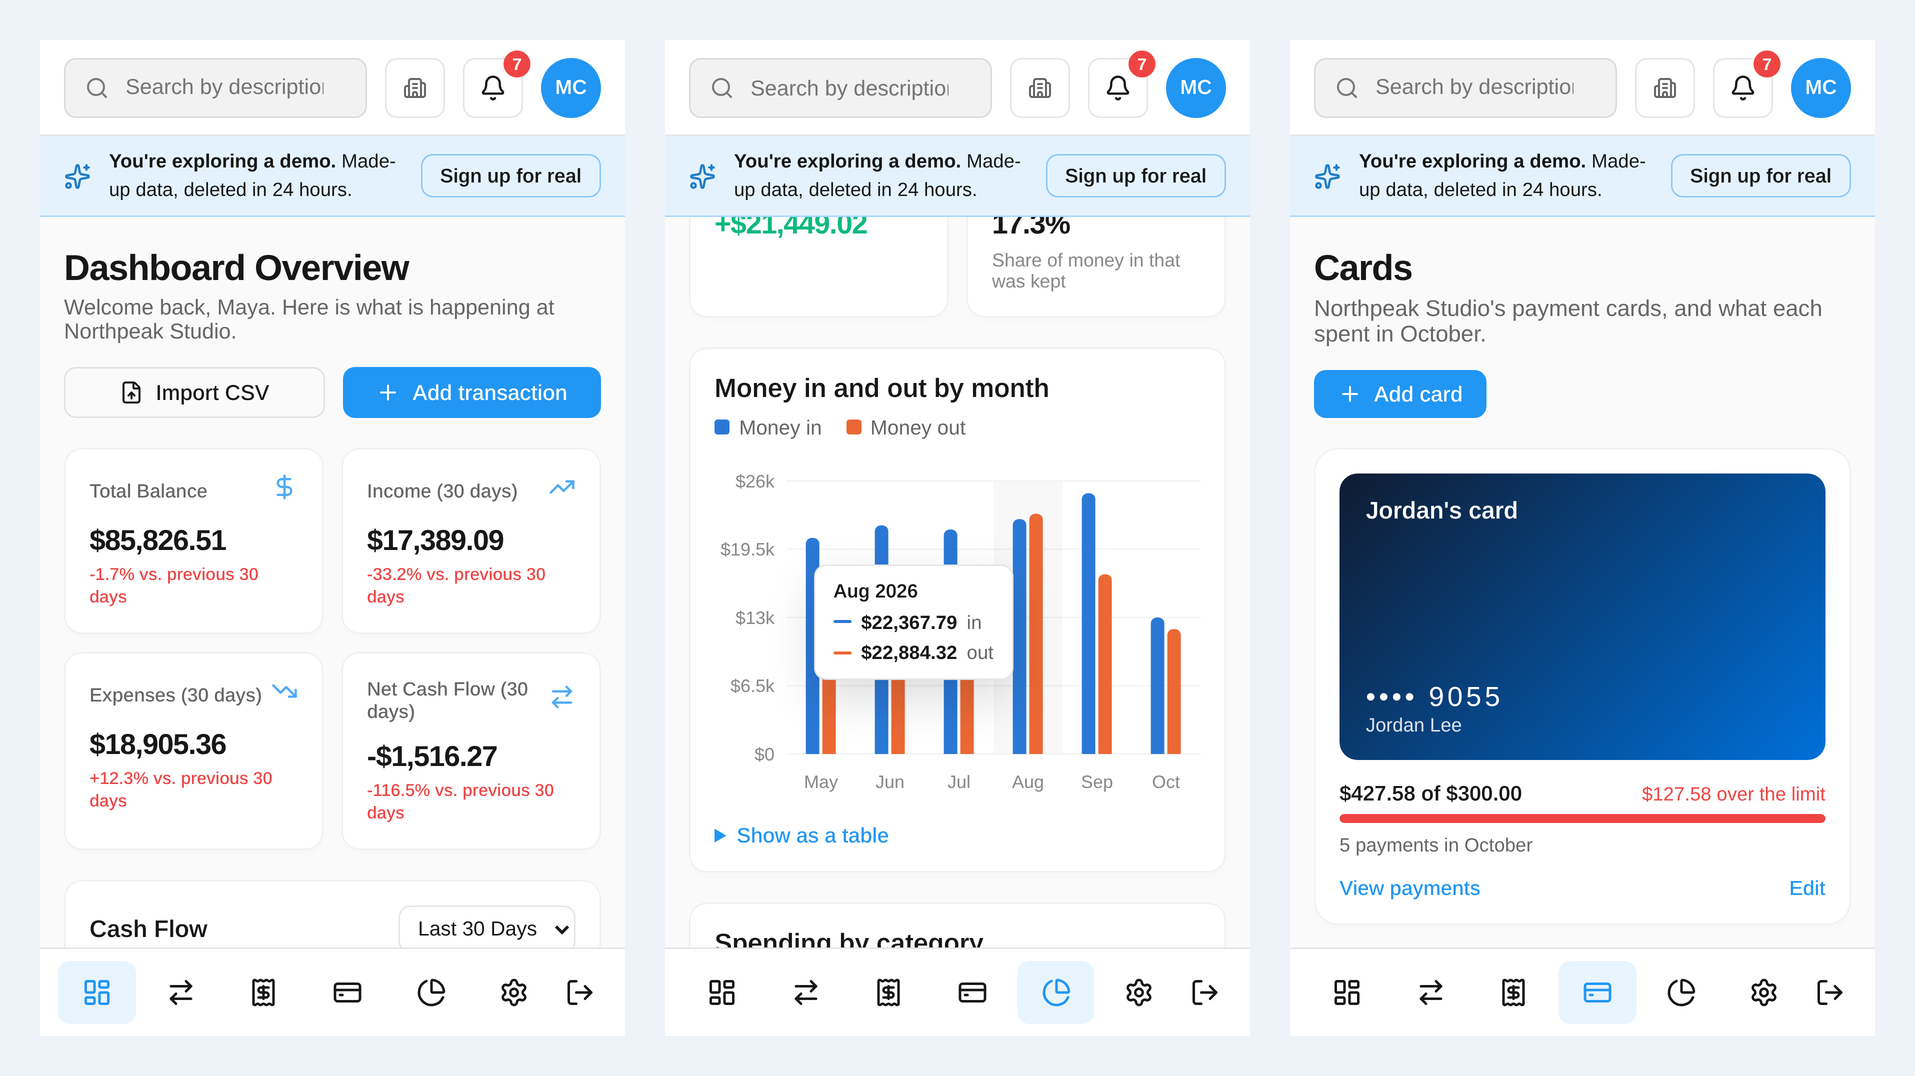
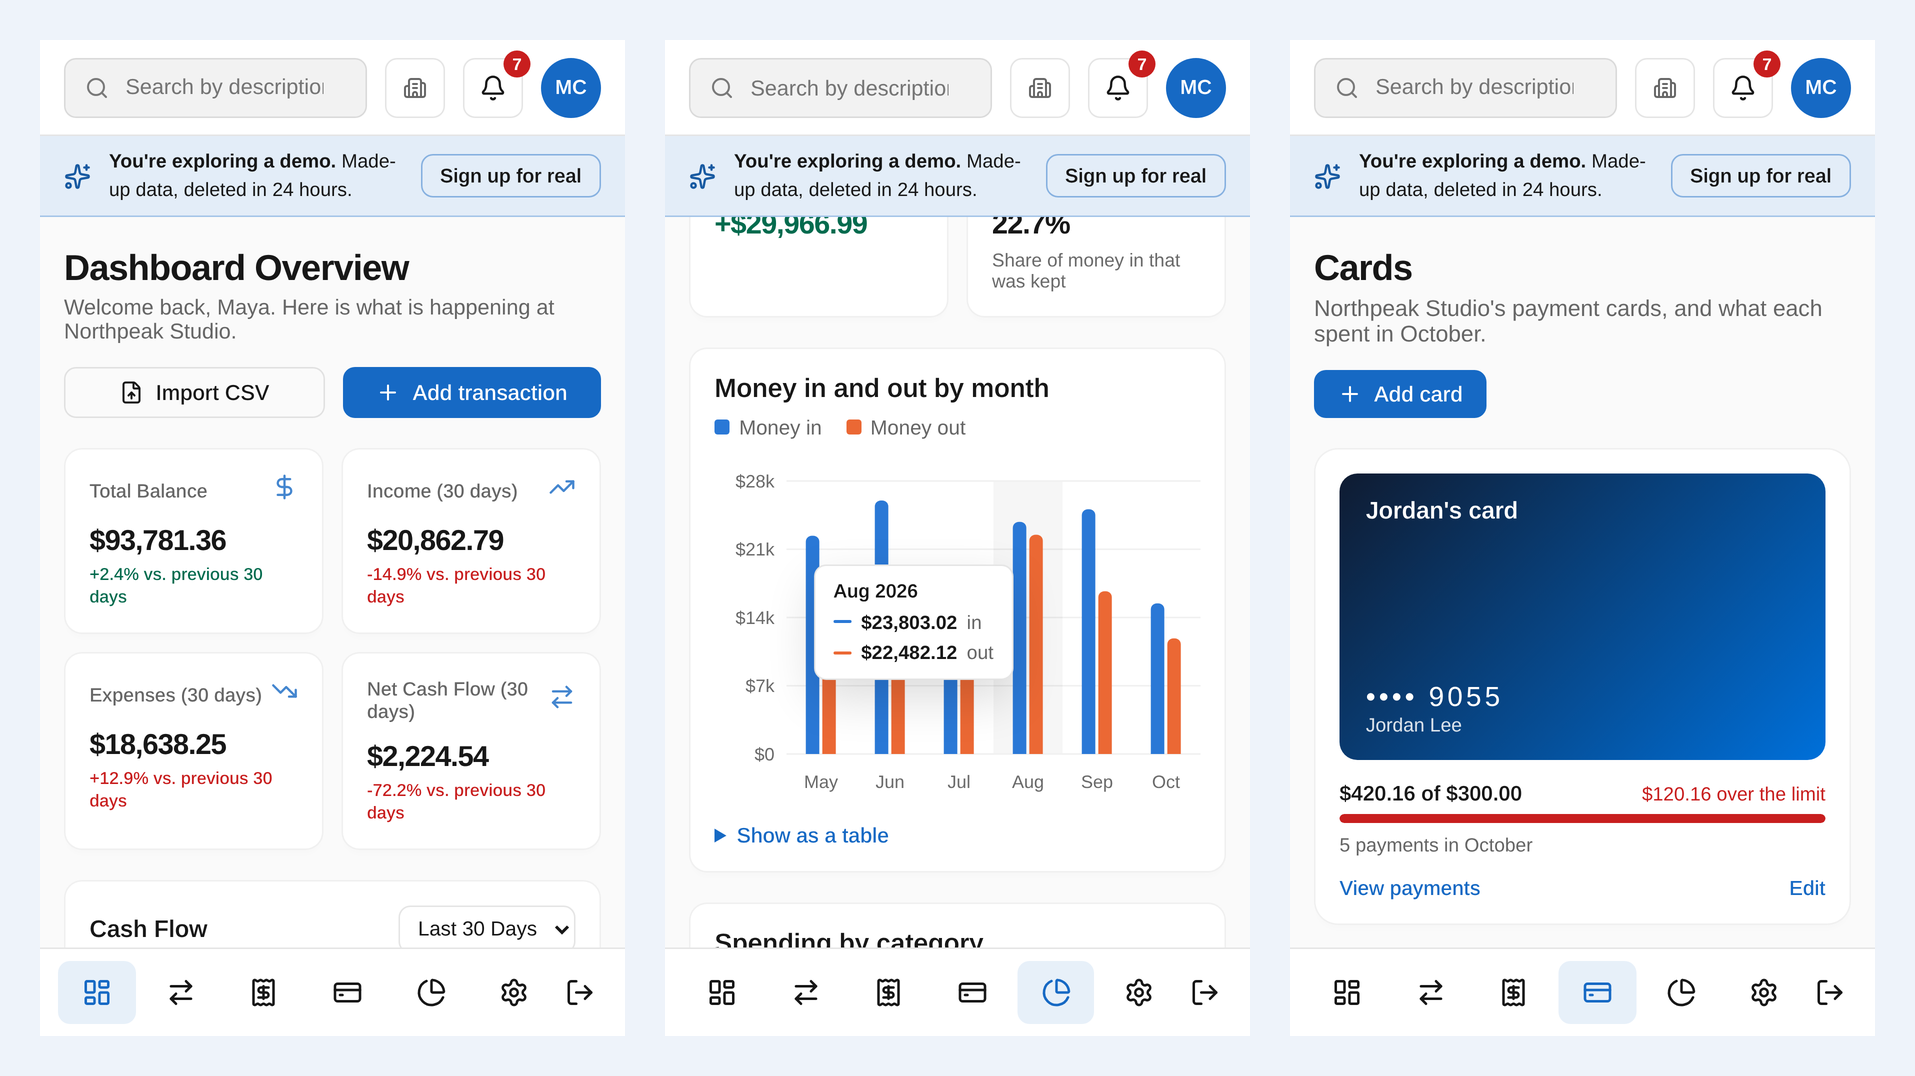
Pass WCAG 2.1 AA accessibility checks in light and dark mode
An end-to-end test now runs axe on the public pages, company setup, and the
demo's pages, dialogs and notifications panel, in both light and dark mode.
It first found 175 problems:

- Text colors with too little contrast (167): the brand blue under white
  button text and as link text, the subtle grey, the green and red of up
  and down figures, and amber status text. Fixed in the color tokens:
  a deeper blue in light mode, a lighter one with dark button text in dark
  mode, darker grey, green and red, and --warning-text for amber words.
  Notification times use the muted grey on their tinted background.
- Links whose screen reader name didn't contain their visible text (8):
  "Mark as paid" and "View payments" now start their names with those words.

The home page's phone illustration is one picture to screen readers; text
inside pictures is exempt from contrast (WCAG 1.4.3), so the test skips
role="img". The README screenshots are retaken with the new colors.

Claude-Session: https://claude.ai/code/session_01DsmAWAz7gJXGyUprrYYSFe

diff --git a/e2e/accessibility.spec.ts b/e2e/accessibility.spec.ts
@@ -1,0 +1,99 @@
+// Accessibility: every page passes axe's WCAG 2.1 AA checks, in light and dark
+//
+// axe (axe-core) looks for problems people using screen readers, keyboards
+// or poor eyesight run into: text too faint to read, buttons and fields
+// without a name, headings out of order, and so on. A failure lists each
+// problem with the elements it found it on.
+
+import AxeBuilder from "@axe-core/playwright";
+import type { Page } from "@playwright/test";
+import { signUp, uniqueEmail } from "./helpers";
+import { expect, test } from "./test";
+
+const PUBLIC_PAGES = ["/", "/login", "/signup", "/forgot-password", "/about", "/contact", "/terms", "/privacy"];
+const DEMO_PAGES = [
+  "/dashboard",
+  "/dashboard/transactions",
+  "/dashboard/bills",
+  "/dashboard/cards",
+  "/dashboard/insights",
+  "/dashboard/settings",
+  "/dashboard/settings/activity",
+  "/your-account",
+];
+
+/** The problems axe finds on the page as it is now, one line each */
+async function problems(page: Page) {
+  const results = await new AxeBuilder({ page })
+    .withTags(["wcag2a", "wcag2aa", "wcag21a", "wcag21aa"])
+    // Pictures (role="img", with a description for screen readers) are
+    // skipped: text that's part of a picture, like the made-up figures on
+    // the home page's phone, isn't held to the contrast rules (WCAG 1.4.3)
+    .exclude('[role="img"]')
+    .analyze();
+  return results.violations.flatMap((v) =>
+    v.nodes.map((node) => `${v.id} (${v.impact}): ${v.help} — ${node.target.join(" ")}`),
+  );
+}
+
+for (const colorScheme of ["light", "dark"] as const) {
+  test.describe(`${colorScheme} mode`, () => {
+    test.use({ colorScheme });
+
+    test("public pages", async ({ page }) => {
+      const found: string[] = [];
+      for (const path of PUBLIC_PAGES) {
+        await page.goto(path);
+        await page.waitForLoadState("networkidle");
+        found.push(...(await problems(page)).map((p) => `${path}: ${p}`));
+      }
+      // Where every new person lands: setting up their company
+      await signUp(page, { name: "Robin", email: uniqueEmail("Robin") });
+      await expect(page.getByRole("heading", { name: "Set up your company" })).toBeVisible();
+      found.push(...(await problems(page)).map((p) => `/onboarding: ${p}`));
+      expect(found).toEqual([]);
+    });
+
+    test("the demo's pages, dialogs and notifications", async ({ page }) => {
+      await page.goto("/");
+      await page.getByRole("button", { name: "Try the demo" }).click();
+      await expect(page.getByRole("heading", { name: "Dashboard Overview" })).toBeVisible({
+        timeout: 15_000,
+      });
+
+      const found: string[] = [];
+      const check = async (label: string) =>
+        found.push(...(await problems(page)).map((p) => `${label}: ${p}`));
+
+      for (const path of DEMO_PAGES) {
+        await page.goto(path);
+        await page.waitForLoadState("networkidle");
+        await check(path);
+      }
+
+      await page.goto("/dashboard/transactions?new=1");
+      await expect(page.getByRole("dialog")).toBeVisible();
+      await check("add transaction dialog");
+
+      await page.goto("/dashboard/transactions");
+      await page.getByRole("link", { name: "Import CSV" }).click();
+      await expect(page.getByRole("dialog")).toBeVisible();
+      await check("import dialog");
+
+      for (const [label, path] of [
+        ["add bill dialog", "/dashboard/bills?new=1"],
+        ["add card dialog", "/dashboard/cards?new=1"],
+      ]) {
+        await page.goto(path);
+        await expect(page.getByRole("dialog")).toBeVisible();
+        await check(label);
+      }
+
+      await page.goto("/dashboard");
+      await page.getByRole("button", { name: "Notifications" }).click();
+      await check("notifications");
+
+      expect(found).toEqual([]);
+    });
+  });
+}

diff --git a/src/app/globals.css b/src/app/globals.css
@@ -6,12 +6,18 @@
    is Finely blue). Every other style file uses these names instead of raw
    color codes, so changing a color here changes it everywhere, and dark mode
    only has to be defined once, in the block below them.
+
+   Every color used for text is dark (or, in dark mode, light) enough to
+   read: at least 4.5:1 contrast against the backgrounds it's used on, as
+   WCAG 2.1 AA asks. e2e/accessibility.spec.ts checks every page in both
+   modes, so check a new color there before using it for text.
    ───────────────────────────────────────────────────────────────────────────── */
 
 :root {
   /* Light mode (default) values */
-  /* Brand */
-  --primary: #2196f3;
+  /* Brand. A deeper blue than the logo's, so white text on buttons and blue
+     links on white are easy to read */
+  --primary: #1669c4;
   --primary-soft: color-mix(in srgb, var(--primary) 10%, transparent);
   --on-primary: #ffffff;
 
@@ -20,7 +26,7 @@
   --foreground: #171717;
   --surface-muted: rgba(0, 0, 0, 0.02);
   --text-muted: #666666;
-  --text-subtle: #888888;
+  --text-subtle: #6b6b6b;
 
   /* Lines & interaction */
   --border: rgba(0, 0, 0, 0.1);
@@ -28,9 +34,11 @@
   --hover: rgba(0, 0, 0, 0.05);
 
   /* Status */
-  --success: #10b981;
+  --success: #036b4e;
   --warning: #f59e0b;
-  --danger: #ef4444;
+  --danger: #c81e1e;
+  /* Amber is too light for text: words in the warning color use this */
+  --warning-text: color-mix(in srgb, var(--warning), var(--foreground) 55%);
 
   /* Chart series. Identity colors, not status: income and expenses are
      different things, not "good" and "bad". Checked for color-blind
@@ -52,13 +60,20 @@
 /* Dark mode: used when the visitor's device is set to dark */
 @media (prefers-color-scheme: dark) {
   :root {
+    /* Lighter on dark backgrounds; buttons then get dark text */
+    --primary: #4fb0f6;
     --primary-soft: color-mix(in srgb, var(--primary) 20%, transparent);
+    --on-primary: #0b1a2a;
 
     --background: #171717;
     --foreground: #ffffff;
     --surface-muted: rgba(0, 0, 0, 0.2);
     --text-muted: #a1a1aa;
-    --text-subtle: #71717a;
+    --text-subtle: #9a9aa2;
+
+    --success: #10b981;
+    --danger: #f87171;
+    --warning-text: color-mix(in srgb, var(--warning), var(--foreground) 30%);
 
     --series-income: #3987e5;
     --series-expenses: #d95926;

diff --git a/src/components/dashboard/bills/BillsView.tsx b/src/components/dashboard/bills/BillsView.tsx
@@ -318,7 +318,7 @@ export default function BillsView({
                           href={`${LIST_PATH}?pay=${bill.id}`}
                           scroll={false}
                           className={styles.payLink}
-                          aria-label={`Mark ${bill.name} as paid`}
+                          aria-label={`Mark as paid: ${bill.name}`}
                         >
                           Mark as paid
                         </Link>
@@ -388,7 +388,7 @@ export default function BillsView({
                           <Link
                             href={`/dashboard/transactions?edit=${bill.transactionId}`}
                             className={styles.viewLink}
-                            aria-label={`View the payment of ${bill.name}`}
+                            aria-label={`View payment of ${bill.name}`}
                           >
                             View payment
                           </Link>

diff --git a/src/components/home/phone-mockup/PhoneMockup.tsx b/src/components/home/phone-mockup/PhoneMockup.tsx
@@ -21,7 +21,12 @@ import {
 
 export default function PhoneMockup() {
   return (
-    <div className={styles.frame}>
+    // One picture to screen readers: its made-up figures aren't content
+    <div
+      className={styles.frame}
+      role="img"
+      aria-label="A phone showing Finely: the total balance, a small chart and recent payments"
+    >
       {/* The phone's side buttons */}
       <span className={styles.buttonVolumeUp} />
       <span className={styles.buttonVolumeDown} />

diff --git a/src/components/dashboard/cards/CardsView.tsx b/src/components/dashboard/cards/CardsView.tsx
@@ -149,7 +149,7 @@ export default function CardsView({
                 <Link
                   href={`/dashboard/transactions?card=${card.id}&from=${monthStart(today)}`}
                   className={styles.link}
-                  aria-label={`View the payments of ${card.name}`}
+                  aria-label={`View payments of ${card.name}`}
                 >
                   View payments
                 </Link>

diff --git a/src/components/dashboard/transactions/TransactionsView.module.css b/src/components/dashboard/transactions/TransactionsView.module.css
@@ -244,7 +244,7 @@
 
 .pending {
   background-color: color-mix(in srgb, var(--warning) 14%, transparent);
-  color: color-mix(in srgb, var(--warning), var(--foreground) 40%);
+  color: var(--warning-text);
 }
 
 .amountCell {

diff --git a/src/components/dashboard/topbar/TopBar.module.css b/src/components/dashboard/topbar/TopBar.module.css
@@ -211,7 +211,8 @@
 
 .notifTime {
   font-size: 0.75rem;
-  color: var(--text-subtle);
+  /* Not --text-subtle: unread notifications have a tinted background */
+  color: var(--text-muted);
 }
 
 .user {

diff --git a/src/components/dashboard/bills/BillsView.module.css b/src/components/dashboard/bills/BillsView.module.css
@@ -241,7 +241,7 @@
 }
 
 .dueNote.dueSoon {
-  color: color-mix(in srgb, var(--warning), var(--foreground) 40%);
+  color: var(--warning-text);
   font-weight: 600;
 }
 

diff --git a/src/components/dashboard/settings/BillingSettings.module.css b/src/components/dashboard/settings/BillingSettings.module.css
@@ -35,7 +35,7 @@
 
 .note {
   font-size: 0.875rem;
-  color: color-mix(in srgb, var(--warning), var(--foreground) 40%);
+  color: var(--warning-text);
 }
 
 .hint {

diff --git a/src/components/dashboard/home/DashboardHome.module.css b/src/components/dashboard/home/DashboardHome.module.css
@@ -279,7 +279,7 @@
 }
 
 .budget_near {
-  color: color-mix(in srgb, var(--warning), var(--foreground) 40%);
+  color: var(--warning-text);
 }
 
 .budget_over {

diff --git a/src/components/dashboard/cards/CardsView.module.css b/src/components/dashboard/cards/CardsView.module.css
@@ -150,7 +150,7 @@
 }
 
 .note_near {
-  color: color-mix(in srgb, var(--warning), var(--foreground) 40%);
+  color: var(--warning-text);
 }
 
 .note_over {

diff --git a/README.md b/README.md
@@ -72,10 +72,15 @@ real customers.*
 - **Security.** Login, sign-up and contact-form rate limiting, security
   headers, roles checked on the server for every action, and a demo that
   can't email, invite or pay for anything.
+- **Accessible.** The public pages, company setup, and every page, main
+  dialog and the notifications panel of the demo pass axe's WCAG 2.1 AA checks in both
+  light and dark mode (text contrast, names for every button and field,
+  headings), checked on every push.
 - **Tested.** 331 unit tests (Vitest) for the calculations and the data
-  rules, and 14 end-to-end tests (Playwright) that use the real app in a
+  rules, and 18 end-to-end tests (Playwright) that use the real app in a
   real browser against a real Postgres: signing up, importing a statement,
-  inviting a teammate, Stripe's messages, the demo and phone-sized screens.
+  inviting a teammate, Stripe's messages, the demo, phone-sized screens and
+  accessibility.
   GitHub Actions runs everything, plus a type check, lint, a production
   build and a check that every schema change has a migration, on every push.
   Dependabot keeps dependencies up to date.
@@ -357,6 +362,10 @@ notes "for developers". Keep these up to date, and add one to new files.
 
 **Colors and styling.** Don't hard-code colors in components. Use the tokens in
 `src/app/globals.css` (`--primary`, `--text-muted`, `--border`, `--success`, …).
+Every token used for text has at least 4.5:1 contrast (WCAG AA) on the
+backgrounds it's used on; words in the warning color use `--warning-text`,
+since amber itself is too light. A new text color has to pass the
+accessibility test (see "Tests").
 Charts use `--series-income` and `--series-expenses` for money in and out on
 every page; `--success`/`--danger` mean good/bad and aren't series colors.
 Dark mode is defined once there, so components using tokens get it for free.
@@ -471,8 +480,12 @@ stopped after a few wrong passwords), adding transactions and importing a
 CSV statement, inviting a teammate who joins as a member, one company not
 seeing another's money, Stripe's signed messages changing the plan
 (Stripe itself is never called: the tests sign the messages with a pretend
-secret), the demo (its sample data, what it refuses, and its deletion), and
-the security headers. To run them:
+secret), the demo (its sample data, what it refuses, and its deletion), the
+security headers, phone-sized screens, and accessibility: the public pages,
+company setup and the demo's pages, dialogs and notifications panel are checked with axe
+(WCAG 2.1 AA) in light and dark mode (`e2e/accessibility.spec.ts`; pages
+that need a link from an email, like resetting a password, aren't). If it fails, it names the rule and the
+element; most failures are text colors with too little contrast. To run them:
 
 ```bash
 npm run test:e2e:db   # once: a throwaway Postgres in Docker, on port 5433
